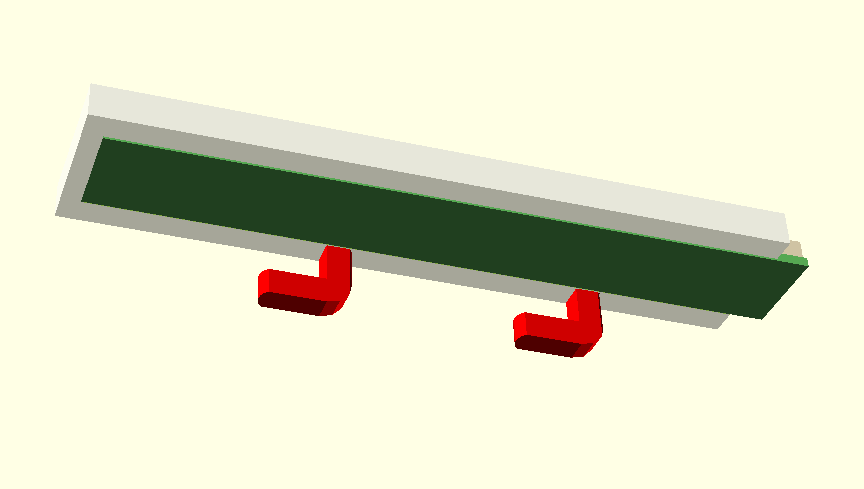
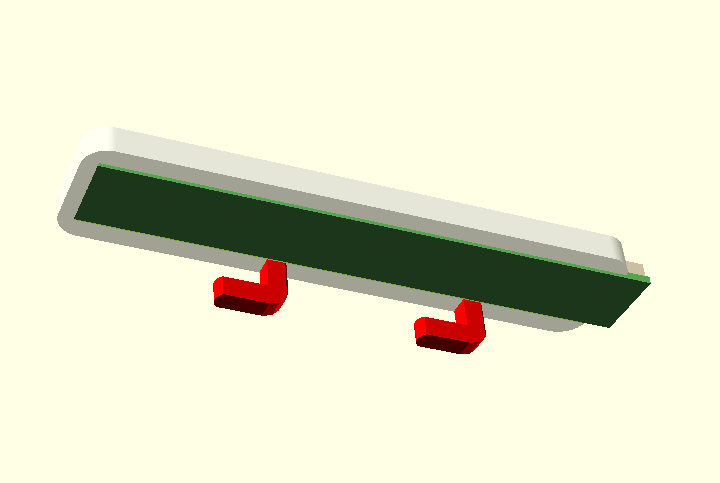
Add util to create filleted rectangle. Add SD to RPY 3A++. Fix screen button and speaker clip. Add RPY clip

Changed region(s): [[0.0611, 0.2174, 0.9472, 0.7453]]

diff --git a/misc/5_skadis_board/README.md b/misc/5_skadis_board/README.md
@@ -1,8 +1,67 @@
 # Ikea Skadis board 3d print complements
 
+
+- [Ikea Skadis board 3d print complements](#ikea-skadis-board-3d-print-complements)
+  - [Models](#models)
+    - [1. Board](#1-board)
+      - [1.1 skadis_board.scad](#11-skadis_boardscad)
+    - [2. Hook](#2-hook)
+      - [2.1 File skadis_simple_hook.scad:](#21-file-skadis_simple_hookscad)
+    - [3. Screen](#3-screen)
+      - [3.1. File screen_stuff/screen_buttons.scad:](#31-file-screen_stuffscreen_buttonsscad)
+      - [3.2. File screen_stuff/screen_speaker.scad:](#32-file-screen_stuffscreen_speakerscad)
+      - [3.3. File screen_stuff/screen.scad:](#33-file-screen_stuffscreenscad)
+    - [4. Assembly](#4-assembly)
+      - [4.1. File assembly.scad:](#41-file-assemblyscad)
+
+
 In this folder there are a set of objects I needed to attach to a Skadis board from IKEA. Each file has a set of modules to produce each of the objects.
 
-## [screen.scad](screen.scad)
+## Models
+
+### 1. Board
+
+A model of the Skadis Board to make tests based on it.
+#### 1.1 [skadis_board.scad](skadis_board.scad)
+
+The board, with my specific size (note that there are different sizes available) and color looks like this:
+| <img src="./media/skadis_board.PNG" alt="View openscad" width=200;/> |
+|---|
+
+### 2. Hook
+
+To fix each of the pieces to the board theres a simple hook designed that has model for the single version or for an array of them. This piece is later integrated into the rest.
+#### 2.1 [File skadis_simple_hook.scad:](skadis_simple_hook.scad)
+
+| Simple Hook | Array of Hooks(2,2) |
+|---|---|
+| <img src="./media/skadis_hook.PNG" alt="View openscad" height=185;/> | <img src="./media/skadis_hook_array.PNG" alt="View openscad" height=185;/> |
+
+### 3. Screen
+
+This set of objects is made to fix an old-laptop-screen to the board.
+
+#### 3.1. [File screen_stuff/screen_buttons.scad:](screen_stuff/screen_buttons.scad)
+
+To control the screen there's a keypad that needs to be fixed. The clip looks like this:
+| <img src="./media/screen_button_2.PNG" alt="View openscad" width=200;/> | <img src="./media/screen_button_2.PNG" alt="View openscad" width=200;/> |
+|---|---|
+
+#### 3.2. [File screen_stuff/screen_speaker.scad:](screen_stuff/screen_speaker.scad)
+
+I have a pair of small speakers from another screen that need to be fixed close to the screen too. The clip for them looks like this:
+| <img src="./media/screen_speaker_clip.PNG" alt="View openscad" width=200;/> |
+|---|
+
+#### 3.3. [File screen_stuff/screen.scad:](screen_stuff/screen.scad)
+
+The actual screen with its clips to be attached to the board:
+| <img src="./media/screen_2.PNG" alt="View openscad" width=200;/> | <img src="./media/screen_2.PNG" alt="View openscad" width=200;/> |
+|---|---|
 
 
-## [screen_buttons.scad](screen_buttons.scad)
+### 4. Assembly
+
+#### 4.1. [File assembly.scad:](assembly.scad)
+| <img src="./media/assembly_2.PNG" alt="View openscad" height=185;/> | <img src="./media/assembly_2.PNG" alt="View openscad" height=185;/> |
+|---|---|
